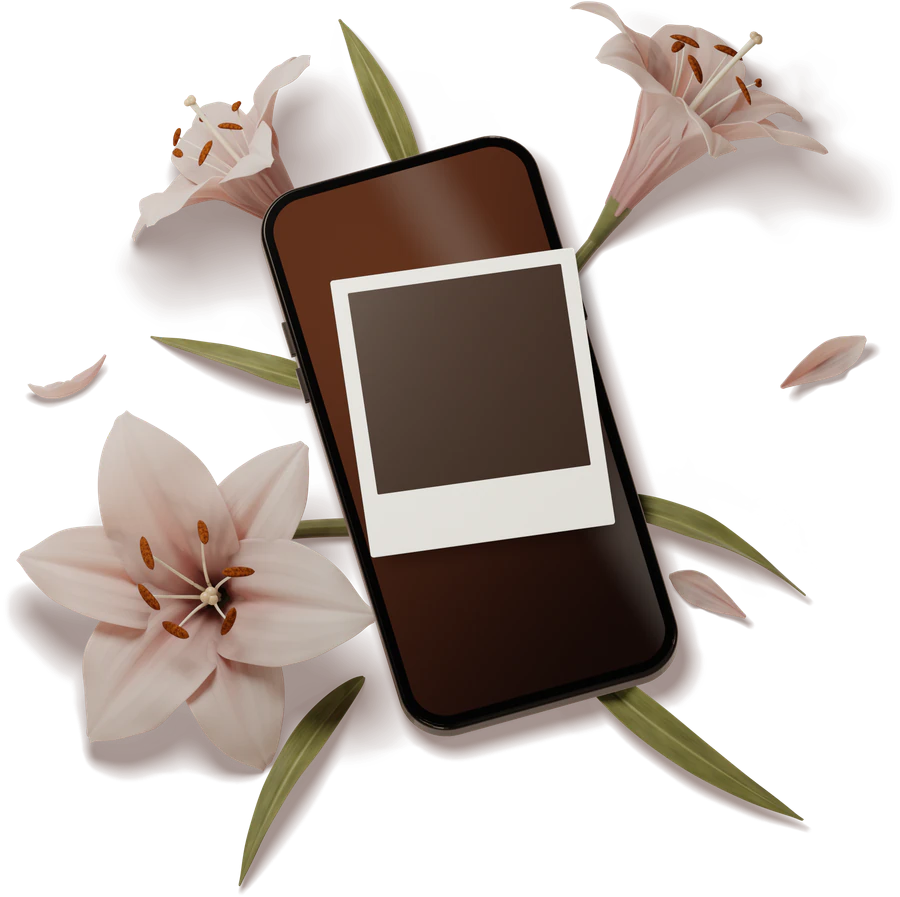
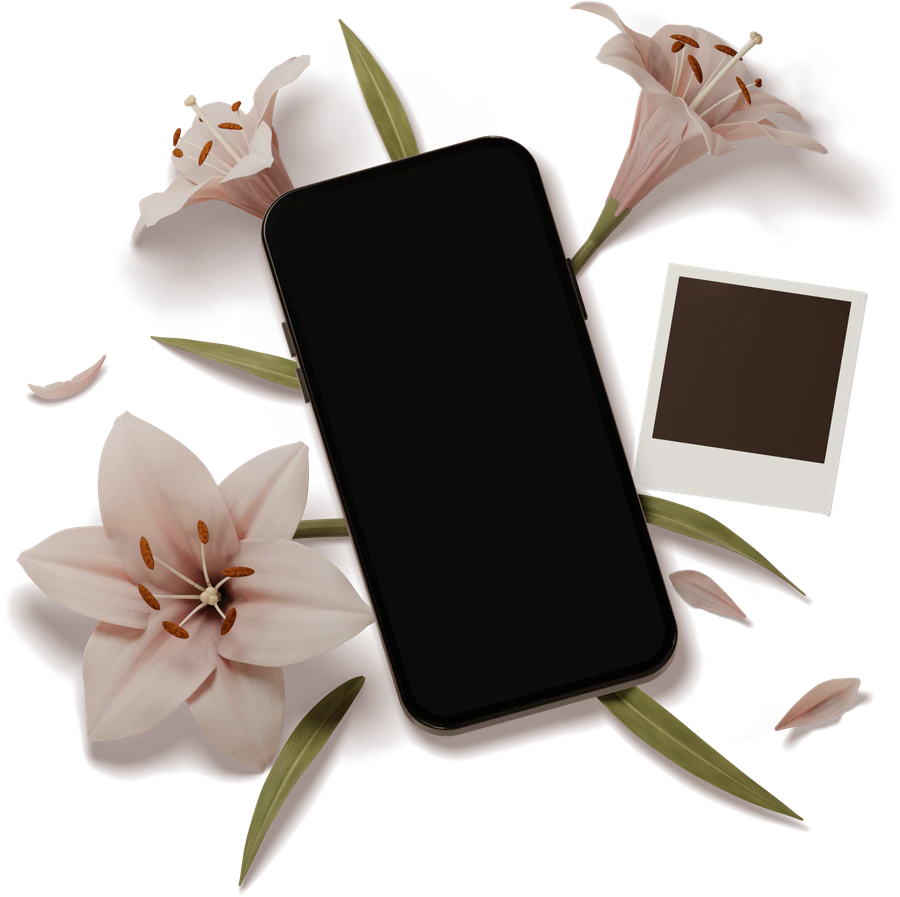
fix(templates): in "The experience" the gift sits in the phone's own screen and the polaroid lies beside the phone
The polaroid rested on the phone's glass at its own angle, over an empty
screen. It read as the screen's picture sitting crooked and sticking out of
the phone (the owner, 23 Nov 2026). The render now has an empty black screen
and a bezel layer, as the hero's has, and the polaroid on the page to the
phone's right; the page lays the gift's cover into the screen and the sample
photo into the polaroid, each by the render's own matrix.

Changed region(s): [[0.28, 0.1561, 0.9956, 0.8116], [0.8711, 0.7492, 0.9644, 0.8428]]

diff --git a/src/components/templates/page/sections.tsx b/src/components/templates/page/sections.tsx
@@ -233,24 +233,40 @@ export async function WhatToWrite({ manifest, locale, guide, flowers }: { manife
 
 /**
  * The picture of "The experience": the page art's `experience-flatlay`, a larger phone lying on
- * lilies with a polaroid resting on it, and the gift's sample photo laid into the polaroid by the
- * render's own matrix. On a phone it is drawn wider than the screen and most of it is off the
- * sides, so `sizes` asks for less than it is drawn at: the half-size file (900 wide) is sharp
- * enough there. Two thirds of the screen's width, so a phone with three device pixels to a pixel
- * still picks it up to 454px wide: at "80vw" an iPhone asked for 936 and was sent the full file,
- * twice the bytes (the deep test of 21 Nov 2026).
+ * lilies with a polaroid on the page beside it. The gift's own cover is laid into the phone's
+ * screen and its sample photo into the polaroid, each by the render's own matrix, so each sits
+ * straight in the thing it belongs to; the phone's rim goes back over the cover.
+ *
+ * The polaroid used to rest on the phone's glass at its own angle, with nothing on the screen
+ * under it. It read as the screen's picture sitting crooked and sticking out of the phone, and
+ * the owner called it broken (23 Nov 2026). Nothing lies on the phone now.
+ *
+ * On a phone it is drawn wider than the screen and most of it is off the sides, so `sizes` asks
+ * for less than it is drawn at: the half-size file (900 wide) is sharp enough there. Two thirds
+ * of the screen's width, so a phone with three device pixels to a pixel still picks it up to
+ * 454px wide: at "80vw" an iPhone asked for 936 and was sent the full file, twice the bytes (the
+ * deep test of 21 Nov 2026).
  */
-function ExperienceFlatlay({ flowers, photo: sample }: { flowers: Flowers; photo: SamplePhoto }) {
+const EXPERIENCE_SIZES = "(min-width: 1024px) 50vw, (min-width: 640px) 80vw, 66vw";
+
+function ExperienceFlatlay({ flowers, photo: sample, poster }: { flowers: Flowers; photo: SamplePhoto; poster: string }) {
   const art = pageArt("experience-flatlay", flowers);
-  const photo = art.slots.photo;
+  const { photo, screen } = art.slots;
   return (
     <div data-flatlay="experience" className="relative" style={{ aspectRatio: `${art.width} / ${art.height}` }}>
       <span data-decor="experience-flatlay" className="absolute inset-0 block">
-        <CutoutImg src={art.src1x} srcSet={artSrcSet(art)} sizes="(min-width: 1024px) 50vw, (min-width: 640px) 80vw, 66vw" width={art.width} height={art.height} className="block w-full" />
+        <CutoutImg src={art.src1x} srcSet={artSrcSet(art)} sizes={EXPERIENCE_SIZES} width={art.width} height={art.height} className="block w-full" />
       </span>
+      {screen ? (
+        <div data-slot="screen" className="absolute overflow-hidden bg-night" style={slotStyle(art, screen)}>
+          <Image src={poster} alt="" fill sizes="(min-width: 1024px) 280px, 40vw" className="object-cover" />
+        </div>
+      ) : null}
+      {/* The phone's rim, over what was laid into its screen. Outside the span above: that one holds the picture alone. */}
+      {art.bezel ? <CutoutImg src={art.bezel.src1x} srcSet={`${art.bezel.src1x} ${art.width1x}w, ${art.bezel.src} ${art.width}w`} sizes={EXPERIENCE_SIZES} width={art.width} height={art.height} className="absolute inset-0 block w-full" /> : null}
       {photo ? (
-        <div className="absolute overflow-hidden" style={slotStyle(art, photo)}>
-          <Image src={sample.src} alt="" fill sizes="(min-width: 1024px) 220px, 45vw" className="object-cover" />
+        <div data-slot="photo" className="absolute overflow-hidden" style={slotStyle(art, photo)}>
+          <Image src={sample.src} alt="" fill sizes="(min-width: 1024px) 180px, 30vw" className="object-cover" />
         </div>
       ) : null}
     </div>
@@ -354,7 +370,7 @@ export async function Experience({ manifest, locale, flowers, photo, line, note 
         <div className="container-x grid items-center gap-y-6 pt-4 pb-20 sm:pb-24 lg:grid-cols-[minmax(0,1fr)_minmax(0,1.02fr)] lg:gap-x-12 lg:pt-0 lg:pb-0">
           {/* The picture is wider than its column and runs off the page's left side and under the band's lower edge. */}
           <div className="-mx-[14%] sm:mx-auto sm:w-[34rem] lg:-mt-6 lg:-mb-[9%] lg:-ml-[24%] lg:mr-[-4%] lg:w-auto">
-            <ExperienceFlatlay flowers={flowers} photo={photo} />
+            <ExperienceFlatlay flowers={flowers} photo={photo} poster={manifest.thumbnail.poster} />
           </div>
           <div className="lg:py-24">
             <p className="text-page-label text-page-body">{t("experienceLabel")}</p>

diff --git a/tests/unit/page-art.test.ts b/tests/unit/page-art.test.ts
@@ -68,7 +68,21 @@ describe("page art", () => {
       const hero = pageArt("hero-flatlay", flowers);
       expect(hero.slots.screen?.box, flowers).toEqual([390, 844]);
       expect(hero.bezel, `${flowers}: the hero's phone has no bezel layer`).toBeDefined();
-      expect(pageArt("experience-flatlay", flowers).slots.photo, flowers).toBeDefined();
+      // The band's phone shows the gift in its own screen, under its own rim, and the polaroid lies beside
+      // it: a polaroid resting on the glass read as a crooked screen sticking out of the phone (the owner, 23 Nov 2026).
+      const band = pageArt("experience-flatlay", flowers);
+      expect(band.slots.photo, flowers).toBeDefined();
+      expect(band.slots.screen?.box, flowers).toEqual([390, 844]);
+      expect(band.bezel, `${flowers}: the band's phone has no bezel layer`).toBeDefined();
+      // A slot's corners in the picture (top left, top right, bottom right, bottom left): matrix(a, b, c, d, e, f) carries (x, y) to (a·x + c·y + e, b·x + d·y + f).
+      const [screen, photo] = [band.slots.screen!, band.slots.photo!].map(({ box: [w, h], matrix: [a, b, c, d, e, f] }) =>
+        [[0, 0], [w, 0], [w, h], [0, h]].map(([x, y]) => [a * x + c * y + e, b * x + d * y + f] as const),
+      );
+      // The whole polaroid is on the far side of the screen's right edge (the line from its top right corner to its bottom right), with room for the phone's rim between.
+      const [[x1, y1], [x2, y2]] = [screen[1], screen[2]];
+      const edge = Math.hypot(x2 - x1, y2 - y1);
+      const beyond = photo.map(([x, y]) => ((x2 - x1) * (y1 - y) - (y2 - y1) * (x1 - x)) / edge);
+      expect(Math.min(...beyond), `${flowers}: the polaroid lies clear of the phone, in the picture's own pixels`).toBeGreaterThan(40);
       expect(pageArt("step-photo", flowers).slots.photo, flowers).toBeDefined();
       expect(pageArt("step-note", flowers).slots.card, flowers).toBeDefined();
       // The third step's small phone takes any gift's cover in its screen, under a rim of its own.

diff --git a/scripts/art/pages/flatlay.py b/scripts/art/pages/flatlay.py
@@ -28,6 +28,8 @@ import things  # noqa: E402
 OPT = pkit.cli()
 PHONE_Z = 0.22
 HIGH = 7.0
+# The experience flat-lay's polaroid: its width, where its middle lies on the page (right of the phone), and its turn.
+POLAROID = dict(w=3.4, at=(4.75, 1.0, 0.05), yaw=-9.0)
 
 
 def phone_over(w, yaw, screen="#0b0908", screen_mat=None):
@@ -133,27 +135,31 @@ def experience(colour):
         (-1.8, -4.2, 232.0, 4.4, 0.34, 0.6, 0.16, 8.0),
         (-0.8, 4.2, 104.0, 3.8, 0.3, -0.5, 0.14, -6.0),
         (-2.0, 0.9, 172.0, 3.6, 0.3, 0.6, -0.16, 10.0)))
-    objs += loose(mats, colour, ((5.3, 0.9, 32.0, 20.0, 1.9, 70.0, 1.2), (4.7, -3.2, 150.0, -30.0, 1.6, 50.0, 1.0), (-6.2, 1.5, 200.0, 60.0, 1.7, 95.0, 1.25)))
-    parts, info, proot = phone_over(4.9, 16.0, screen_mat=things.glow_screen("screen_glow"))
+    objs += loose(mats, colour, ((5.2, -5.3, 32.0, 20.0, 1.9, 70.0, 1.2), (4.7, -3.2, 150.0, -30.0, 1.6, 50.0, 1.0), (-6.2, 1.5, 200.0, 60.0, 1.7, 95.0, 1.25)))
+    # The phone's screen is an empty flat black, as the hero's is: a page lays the gift itself into
+    # it, straight in the phone, and the bezel layer goes back over that.
+    parts, info, proot = phone_over(4.9, 16.0)
     objs += parts
-    # the polaroid lies on the phone's glass (and so is held up with it); its shadow falls on the glass
-    lift = HIGH - PHONE_Z
-    back = -lift * pkit.SIN_T / pkit.COS_T
-    top = HIGH + info["size"][2]
-    pparts, pinfo = things.polaroid("polaroid", 4.2)
-    pol = things.place("polaroid_root", pparts, (0.05, 0.5 + back, top + 0.03), yaw=8.0, pitch=0.6, roll=-1.2)
-    w_, h_, _ = pinfo["size"]
-    shade = things.soft_shadow("polaroid_shade", w_ * 1.12, h_ * 1.1, 0.16, 0.62)
-    things.place("polaroid_shade_root", [shade], (0.05 + 0.13, 0.5 + back - 0.16, top + 0.015), yaw=8.0, pitch=0.6, roll=-1.2)
-    for ob in pparts:
-        ob.visible_shadow = False
-    objs += pparts + [shade]
+    # The polaroid lies on the page BESIDE the phone, turned the other way. It used to rest on the
+    # phone's glass at its own angle, and read as the screen's picture sitting crooked and sticking
+    # out of the phone (the owner, 23 Nov 2026: "its coming out of the phone").
+    pparts, pinfo = things.polaroid("polaroid", POLAROID["w"])
+    pol = things.place("polaroid_root", pparts, POLAROID["at"], yaw=POLAROID["yaw"], pitch=0.0, roll=0.0)
+    objs += pparts
     pkit.rig(OPT)
     shot = pkit.frame(objs, 1980, pad=(0.5, 0.5, 1.3, 1.3), opt=OPT, piece="experience-flatlay")
     meta = {"piece": "experience-flatlay", "colourway": colour, "long": 1800,
             "photo": dict(pkit.area(shot, things.world_corners(pol, pinfo), (400, 400), pinfo["radius"], pinfo["width"]), fill="#3d2f29"),
-            "screen": dict(pkit.area(shot, things.world_corners(proot, info), things.SCREEN_BOX, info["radius"], info["width"]), fill="#3e2318")}
-    pkit.shoot("experience-flatlay-" + colour, OPT["out"], objs, floor, shot, meta=meta)
+            "screen": dict(pkit.area(shot, things.world_corners(proot, info), things.SCREEN_BOX, info["radius"], info["width"]), fill="#0b0908")}
+    scr = info["screen"]
+    black, hole = scr.data.materials[0], things.holdout()
+
+    def cut():
+        scr.data.materials[0] = hole
+
+    def uncut():
+        scr.data.materials[0] = black
+    pkit.shoot("experience-flatlay-" + colour, OPT["out"], objs, floor, shot, meta=meta, extra=[("bezel", parts, cut, uncut)])
 
 
 def main():
